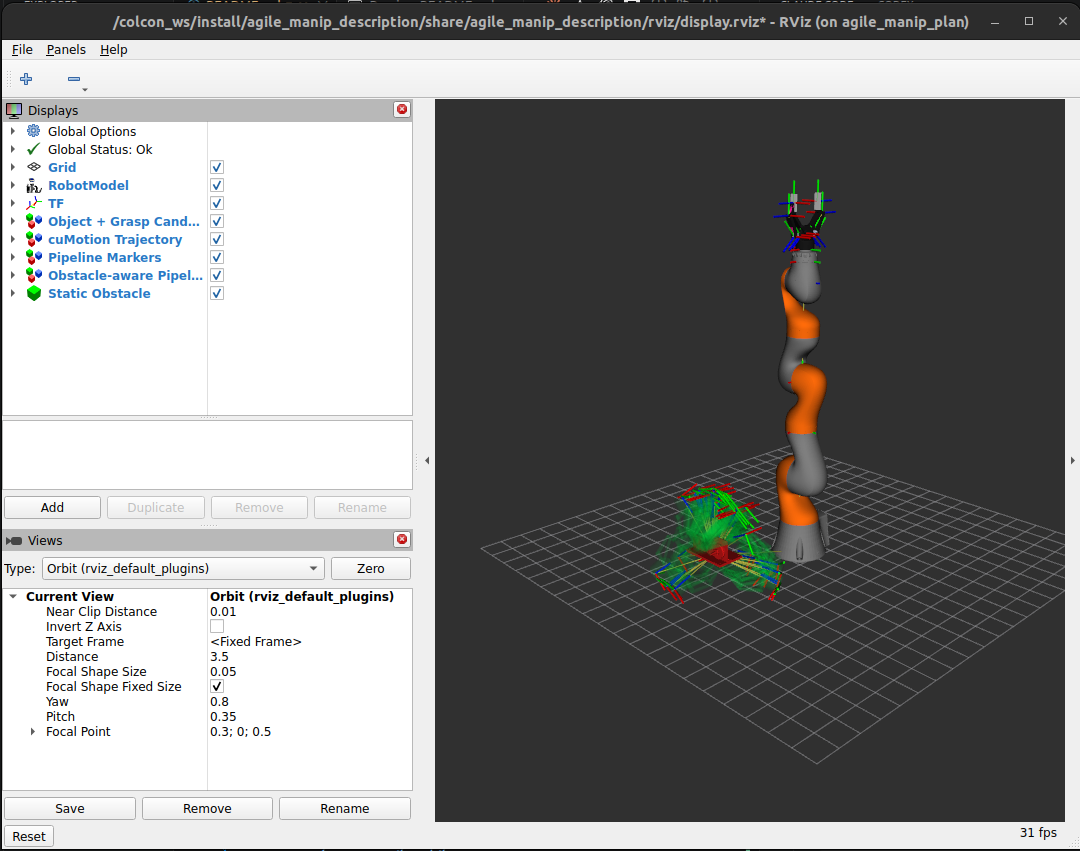
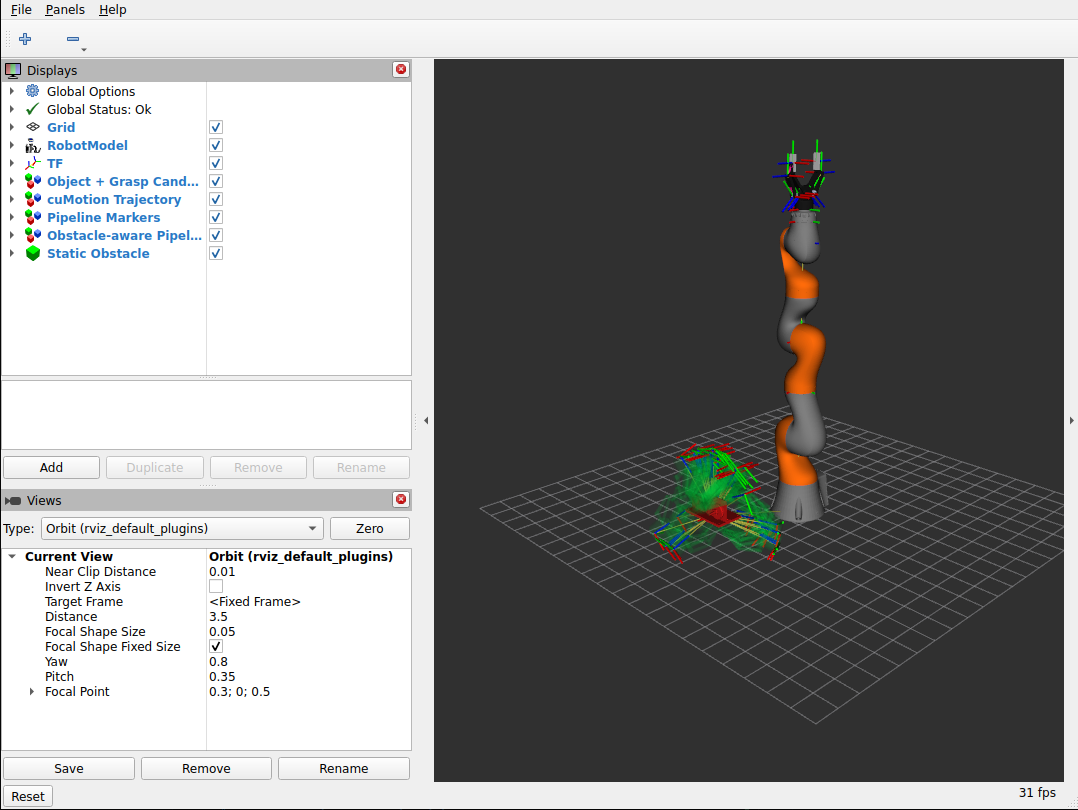
Fix stale robot model in dynamic replan, tidy demo screenshots
The dynamic_replan_planner only published HOME /joint_states once at
startup, so while the node ran for many seconds the TFs went stale
and RViz drew the robot as a disintegrated mesh. Republish HOME
joint_states at 30 Hz so the RobotModel display stays coherent for
the whole demo.

Crop the OS window title bar off dataset/demo/01..05_*.png so they
match the cleaner RViz-only framing of 06_dynamic_replan_demo.png,
and re-capture 06 from a fresh recording taken with the fix above
(the previous frame contained the broken robot).

diff --git a/colcon_ws/src/agile_manip_examples/agile_manip_examples/dynamic_replan_planner.py b/colcon_ws/src/agile_manip_examples/agile_manip_examples/dynamic_replan_planner.py
@@ -149,6 +149,11 @@ class DynamicReplanPlanner(Node):
         self._startup_t0 = time.monotonic()
 
         self.publish_joint_state(HOME_JOINTS)
+        # Continuously re-emit HOME joints so robot_state_publisher keeps
+        # a fresh set of TFs alive and RViz's RobotModel display does
+        # not go stale while we replan for many seconds. 30 Hz is cheap
+        # and matches the typical RViz refresh rate.
+        self.create_timer(1.0 / 30.0, lambda: self.publish_joint_state(HOME_JOINTS))
         self.startup_timer = self.create_timer(1.0, self._startup)
 
     # ------------------------------------------------------------------
